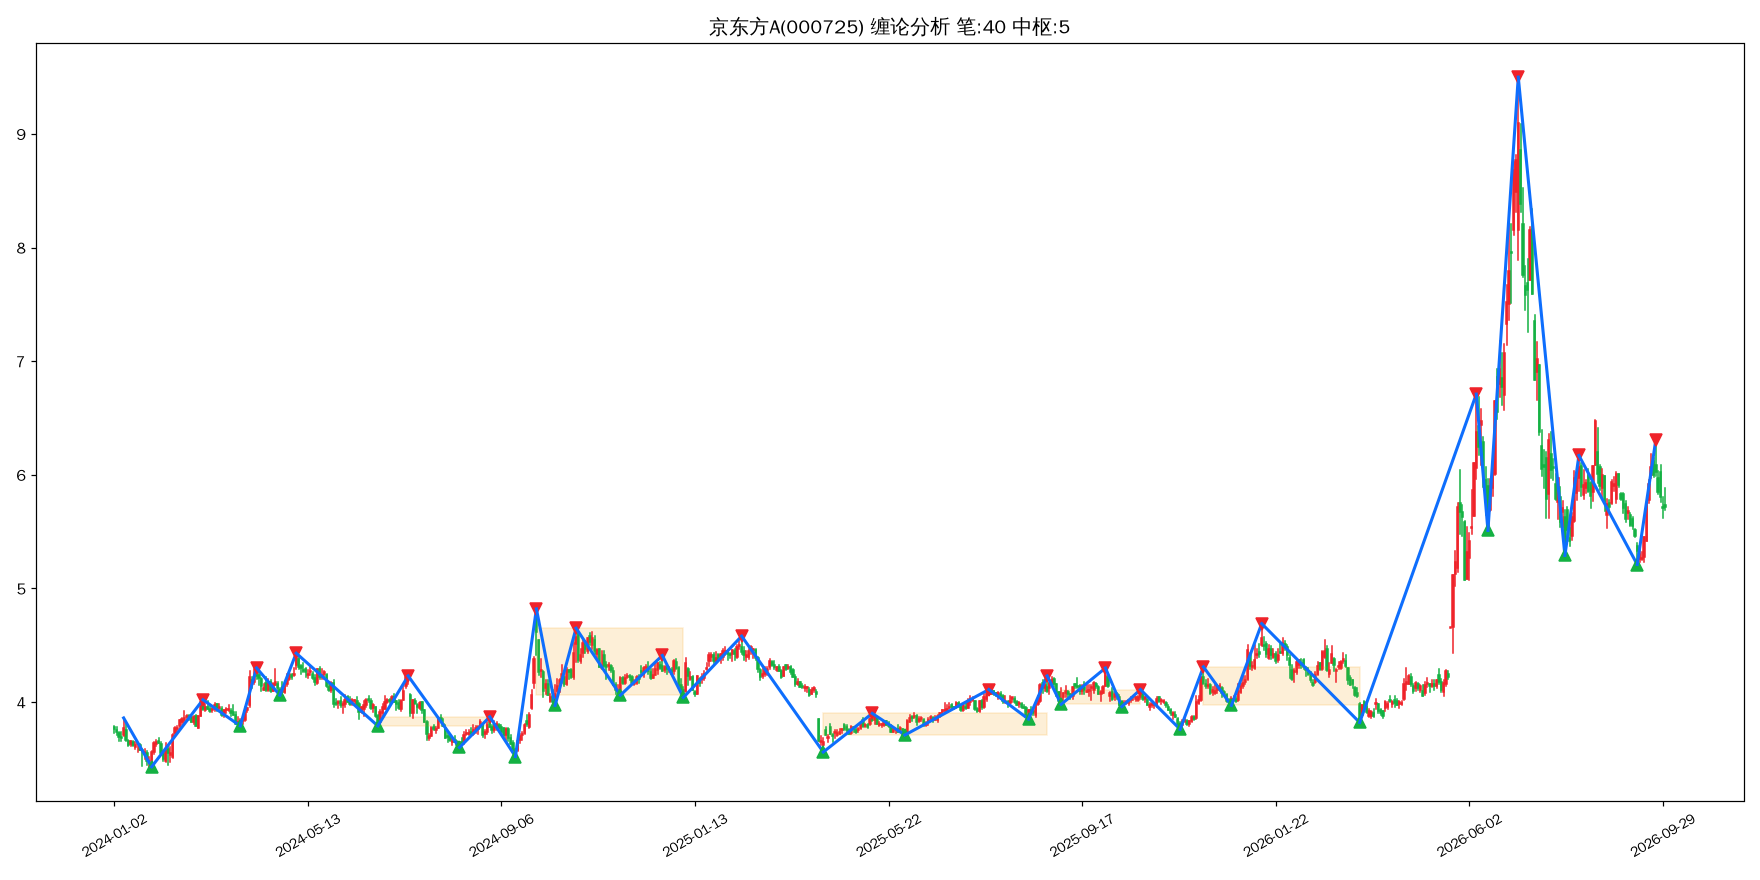
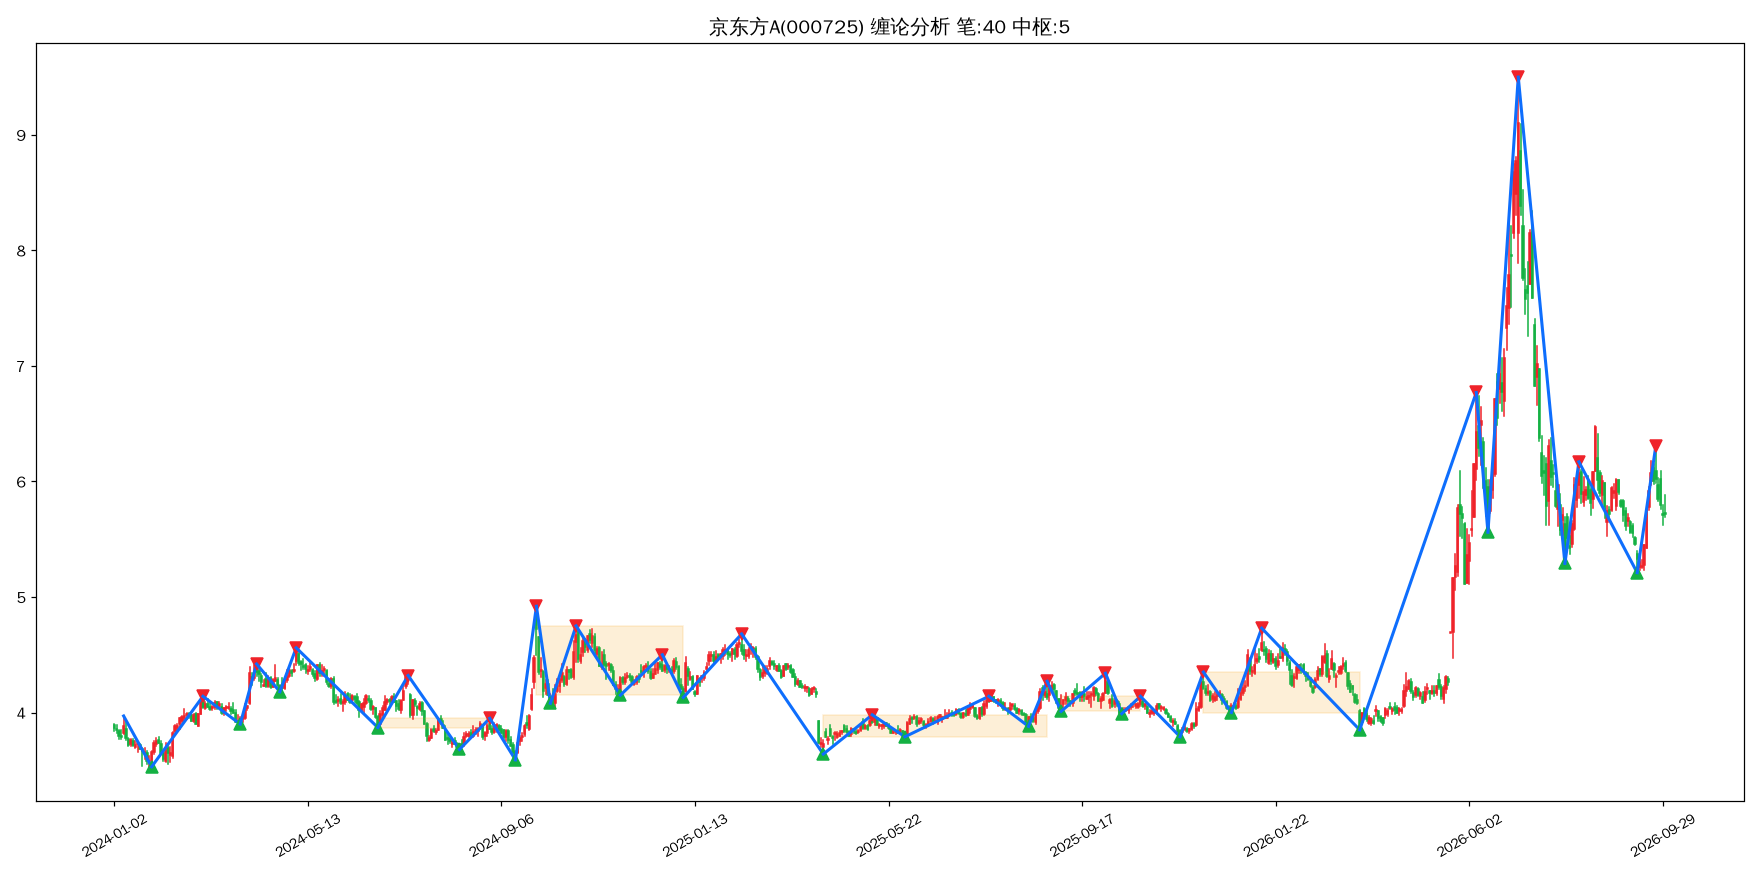
🤖 自动更新缠论分析报告与绘图

diff --git a/chan_report.md b/chan_report.md
@@ -1,8 +1,14 @@
 # 批量缠论分析报告（chan.py 引擎 · 含买卖点+背驰判断）
 > 数据区间：2024-01-01 ~ 2026-10-01
 
-## 京东方A(000725)
-❌ 京东方A 分析失败：CChanException: 2024/03/29 high price=4.050000190734863 is not max of [low=4.019999980926514, open=4.039999961853027, high=4.050000190734863, close=4.059999942779541]
+## 京东方A（000725）
+- 最新收盘价：5.71999979019165
+- 有效K线数量：666
+- 笔总数：40 | 中枢总数：5
+- 最新一笔走势：上涨 | 2026-09-11~2026-09-23 | 5.21 → 6.31
+- 缠论背驰判断：**无背驰**
+- 三类买卖点识别：**买1类@2024-09-18(3.63)、买2,3b类@2024-10-16(4.13)、买2s类@2024-11-27(4.30)、买2s类@2025-01-06(4.18)**
+![京东方A缠论图谱](chan_img/000725_京东方A.png)
 
 ## 格力电器（000651）
 - 最新收盘价：38.279998779296875
@@ -22,8 +28,14 @@
 - 三类买卖点识别：**买1类@2024-08-29(11.75)、买2类@2024-09-18(11.64)**
 ![长安汽车缠论图谱](chan_img/000625_长安汽车.png)
 
-## 海南橡胶(601118)
-❌ 海南橡胶 分析失败：CChanException: 2024/03/29 high price=5.070000171661377 is not max of [low=4.980000019073486, open=5.050000190734863, high=5.070000171661377, close=5.090000152587891]
+## 海南橡胶（601118）
+- 最新收盘价：6.369999885559082
+- 有效K线数量：666
+- 笔总数：33 | 中枢总数：4
+- 最新一笔走势：下跌 | 2026-09-09~2026-09-29 | 8.15 → 5.77
+- 缠论背驰判断：**无背驰**
+- 三类买卖点识别：**买1p类@2026-07-20(4.68)、买2类@2026-08-14(5.28)**
+![海南橡胶缠论图谱](chan_img/601118_海南橡胶.png)
 
 ## 科大讯飞（002230）
 - 最新收盘价：37.220001220703125
@@ -43,8 +55,14 @@
 - 三类买卖点识别：**买1类@2025-04-09(7.61)、买2类@2025-06-03(7.93)**
 ![中国宝安缠论图谱](chan_img/000009_中国宝安.png)
 
-## 海格通信(002465)
-❌ 海格通信 分析失败：CChanException: 2024/03/29 high price=10.850000381469727 is not max of [low=10.5, open=10.520000457763672, high=10.850000381469727, close=11.149999618530273]
+## 海格通信（002465）
+- 最新收盘价：9.890000343322754
+- 有效K线数量：666
+- 笔总数：34 | 中枢总数：2
+- 最新一笔走势：上涨 | 2026-08-21~2026-09-24 | 9.69 → 10.56
+- 缠论背驰判断：**上涨趋势背驰（警惕阶段顶部）**
+- 三类买卖点识别：**卖1类@2025-08-29(14.62)、卖2类@2025-09-12(13.90)**
+![海格通信缠论图谱](chan_img/002465_海格通信.png)
 
 ## 郑州银行（002936）
 - 最新收盘价：1.7400000095367432
